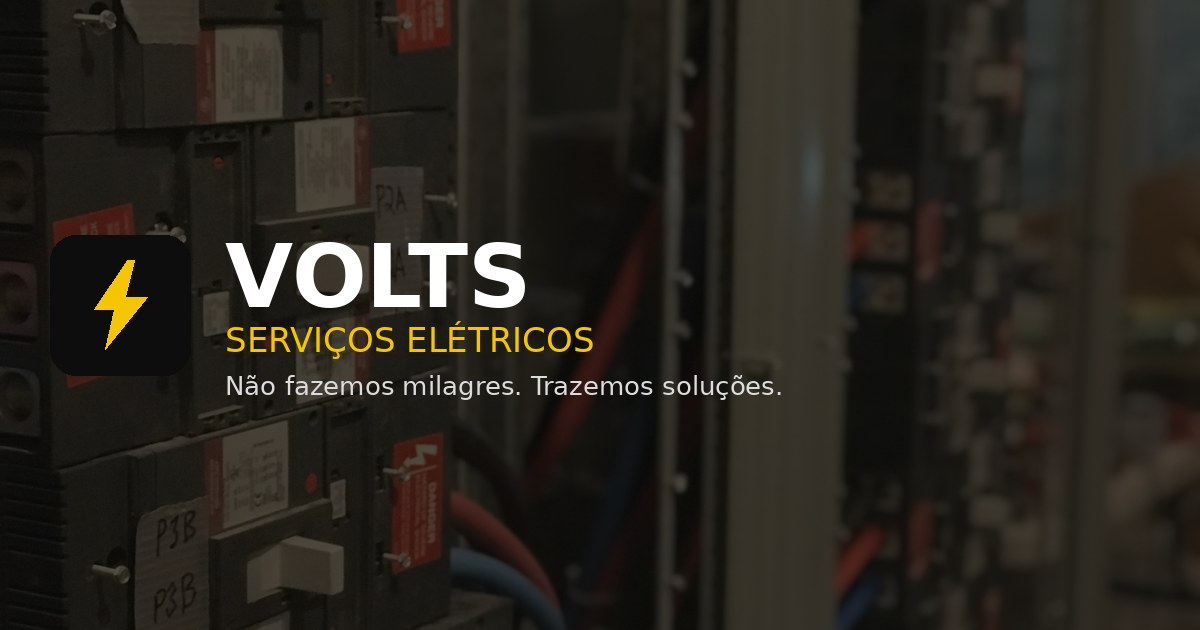
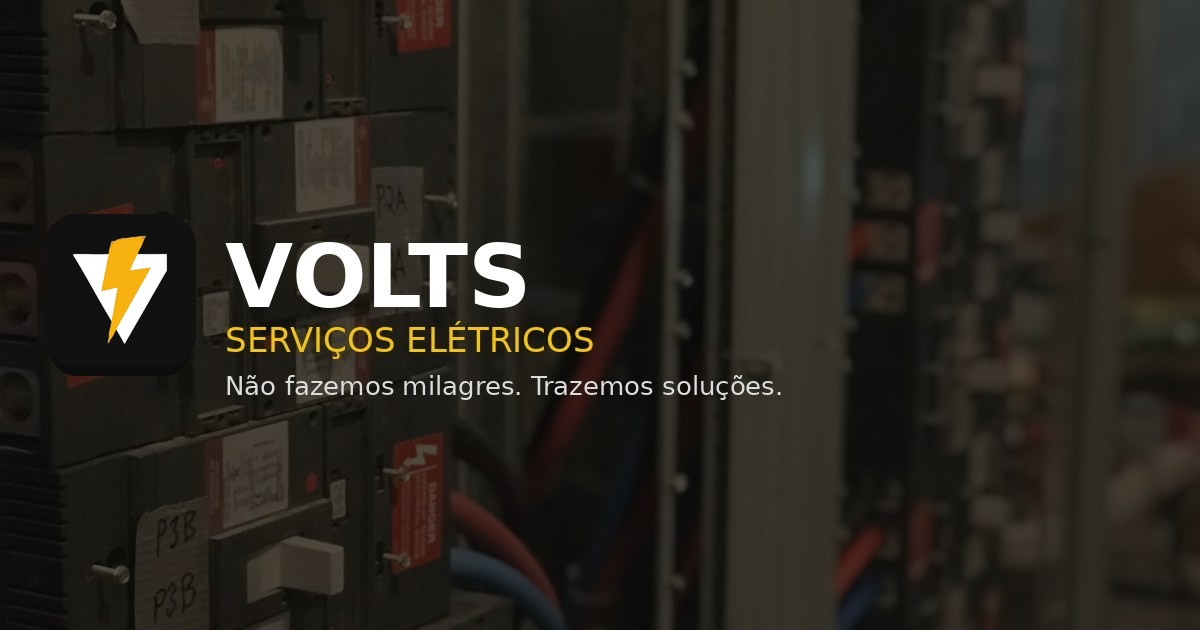
Sync site files

Changed region(s): [[0.185, 0.5127, 0.4933, 0.573], [0.0308, 0.3317, 0.1542, 0.5429]]

diff --git a/index.html b/index.html
@@ -60,6 +60,45 @@
 }
 </script>
 
+<script type="application/ld+json">
+{
+  "@context": "https://schema.org",
+  "@type": "FAQPage",
+  "mainEntity": [
+    {
+      "@type": "Question",
+      "name": "Vocês atendem fora de Juína?",
+      "acceptedAnswer": {"@type": "Answer", "text": "Sim. Atendemos armazéns, indústrias e comércios em todo o estado de Mato Grosso, com equipe própria e parceiros técnicos regionais para deslocamento até a obra."}
+    },
+    {
+      "@type": "Question",
+      "name": "Quanto tempo leva para fabricar um painel elétrico sob medida?",
+      "acceptedAnswer": {"@type": "Answer", "text": "O prazo varia conforme a complexidade do projeto e a disponibilidade dos componentes. Após o levantamento técnico e a aprovação do projeto, informamos um prazo estimado antes de iniciar a fabricação."}
+    },
+    {
+      "@type": "Question",
+      "name": "Os projetos têm responsabilidade técnica (ART/CRT)?",
+      "acceptedAnswer": {"@type": "Answer", "text": "Sim. Todos os projetos executados pela Volts contam com responsabilidade técnica registrada, atendendo às normas de segurança e às exigências das concessionárias de energia."}
+    },
+    {
+      "@type": "Question",
+      "name": "Como funciona a correção de fator de potência?",
+      "acceptedAnswer": {"@type": "Answer", "text": "Fazemos o diagnóstico da instalação, dimensionamos o banco de capacitores adequado, instalamos e testamos o sistema para evitar multas por baixo fator de potência na conta de energia."}
+    },
+    {
+      "@type": "Question",
+      "name": "Vocês fazem manutenção preventiva de geradores?",
+      "acceptedAnswer": {"@type": "Answer", "text": "Sim. Oferecemos planos de manutenção preventiva e corretiva para geradores, reduzindo o risco de paradas não programadas na sua operação."}
+    },
+    {
+      "@type": "Question",
+      "name": "Como solicito um orçamento?",
+      "acceptedAnswer": {"@type": "Answer", "text": "Fale com a gente pelo WhatsApp ou e-mail com detalhes do seu projeto ou necessidade. Nossa equipe retorna com os próximos passos, incluindo visita técnica quando necessário."}
+    }
+  ]
+}
+</script>
+
 <style>
 :root{
   --black:#111111;
@@ -135,16 +174,9 @@ header{
   transition:background .3s ease;
 }
 .header-inner{display:flex;align-items:center;justify-content:space-between;height:80px;}
-.logo{display:flex;align-items:center;gap:12px;color:var(--white);}
-.logo-icon{
-  width:44px;height:44px;border-radius:11px;background:var(--black);
-  border:1px solid rgba(245,196,0,.35);
-  display:flex;align-items:center;justify-content:center;flex-shrink:0;
-}
-.logo-icon svg{width:22px;height:22px;}
-.logo-text{display:flex;flex-direction:column;line-height:1.1;}
-.logo-text strong{font-family:var(--font-head);font-size:1.28rem;letter-spacing:.03em;color:var(--white);}
-.logo-text span{font-size:.62rem;letter-spacing:.14em;color:var(--yellow);text-transform:uppercase;font-weight:600;}
+.logo{display:flex;align-items:center;gap:10px;color:var(--white);}
+.logo-full{height:34px;width:auto;display:block;}
+.logo-sub{font-size:.62rem;letter-spacing:.14em;color:var(--yellow);text-transform:uppercase;font-weight:600;white-space:nowrap;}
 
 nav{display:flex;align-items:center;gap:36px;}
 .nav-links{display:flex;gap:30px;}
@@ -419,6 +451,39 @@ nav{display:flex;align-items:center;gap:36px;}
 @media(max-width:900px){.mercado-grid{grid-template-columns:1fr;gap:36px;}}
 @media(max-width:480px){.mercado-stats{grid-template-columns:1fr;}}
 
+/* depoimentos */
+.depoimentos-section{background:var(--gray-100);}
+.depoimentos-grid{display:grid;grid-template-columns:repeat(3,1fr);gap:26px;}
+.depoimento-card{
+  background:var(--white);border:1px solid var(--gray-150);border-radius:16px;
+  padding:30px 26px;display:flex;flex-direction:column;gap:16px;
+}
+.depoimento-stars{display:flex;gap:3px;}
+.depoimento-stars svg{width:16px;height:16px;fill:var(--yellow);}
+.depoimento-text{color:var(--gray-700);font-size:.95rem;font-style:italic;flex:1;}
+.depoimento-author{display:flex;gap:12px;align-items:center;}
+.depoimento-avatar{
+  width:42px;height:42px;border-radius:50%;background:var(--black);color:var(--yellow);
+  display:flex;align-items:center;justify-content:center;font-family:var(--font-head);
+  font-weight:600;font-size:.85rem;flex-shrink:0;
+}
+.depoimento-author strong{display:block;font-size:.92rem;color:var(--black);}
+.depoimento-author span{font-size:.8rem;color:var(--gray-500);}
+@media(max-width:960px){.depoimentos-grid{grid-template-columns:1fr;}}
+
+/* faq */
+.faq-list{max-width:820px;margin:0 auto;display:flex;flex-direction:column;gap:14px;}
+.faq-item{border:1px solid var(--gray-150);border-radius:14px;padding:0 24px;background:var(--white);}
+.faq-item summary{
+  list-style:none;cursor:pointer;display:flex;align-items:center;justify-content:space-between;
+  gap:16px;padding:20px 0;font-family:var(--font-head);font-weight:600;font-size:1rem;color:var(--black);
+}
+.faq-item summary::-webkit-details-marker{display:none;}
+.faq-chevron{width:20px;height:20px;flex-shrink:0;transition:transform .3s ease;color:var(--yellow-dark);}
+.faq-item[open] .faq-chevron{transform:rotate(180deg);}
+.faq-item p{color:var(--gray-700);font-size:.94rem;padding:0 0 22px;}
+.faq-item[open] summary{border-bottom:1px solid var(--gray-150);}
+
 /* cta */
 .cta-section{position:relative;color:var(--white);overflow:hidden;}
 .cta-bg{position:absolute;inset:0;background-image:url('images/cta-bg.jpg');background-size:cover;background-position:center 65%;}
@@ -584,7 +649,7 @@ footer h4{color:var(--white);font-family:var(--font-head);font-size:1rem;margin-
   20%,22%{opacity:.45;}
   81%{opacity:.65;}
 }
-.logo-icon svg{animation:boltFlicker 6s linear infinite;}
+.logo-full{animation:boltFlicker 6s linear infinite;}
 
 /* voltar ao topo */
 .back-to-top{
@@ -627,7 +692,7 @@ footer h4{color:var(--white);font-family:var(--font-head);font-size:1rem;margin-
   .reveal,.reveal-left,.reveal-right,.mvv-card,.values-list,.servico-card{transition:none;opacity:1;transform:none;}
   .trust-item .icon-wrap,.mvv-card.revealed .icon-wrap,.values-list.revealed .value-row .icon-wrap{animation:none;}
   .typing-cursor{animation:none;}
-  .logo-icon svg{animation:none;}
+  .logo-full{animation:none;}
   .hero-glow{display:none;}
   html{scroll-behavior:auto;}
 }
@@ -640,10 +705,8 @@ footer h4{color:var(--white);font-family:var(--font-head);font-size:1rem;margin-
 <header id="site-header">
   <div class="container header-inner">
     <a href="#hero" class="logo" aria-label="Volts Serviços Elétricos - início">
-      <span class="logo-icon">
-        <svg viewBox="0 0 24 24" fill="#F5C400" xmlns="http://www.w3.org/2000/svg"><path d="M13 2 4 14h6l-1 8 9-12h-6l1-8z"/></svg>
-      </span>
-      <span class="logo-text"><strong>VOLTS</strong><span>Serviços Elétricos</span></span>
+      <img src="images/logo-full.png" alt="Volts" class="logo-full" loading="eager">
+      <span class="logo-sub">Serviços Elétricos</span>
     </a>
     <nav>
       <ul class="nav-links">
@@ -672,6 +735,8 @@ footer h4{color:var(--white);font-family:var(--font-head);font-size:1rem;margin-
   <a href="#servicos">Serviços</a>
   <a href="#produtos">Produtos</a>
   <a href="#mercado">Mercado</a>
+  <a href="#depoimentos">Depoimentos</a>
+  <a href="#faq">Dúvidas</a>
   <a href="#contato">Contato</a>
   <a href="vitrine.html" style="color:var(--yellow);">Vitrine online</a>
   <a class="btn btn-primary" href="https://wa.me/5566984539233?text=Ol%C3%A1!%20Gostaria%20de%20solicitar%20um%20or%C3%A7amento%20com%20a%20Volts%20Servi%C3%A7os%20El%C3%A9tricos." target="_blank" rel="noopener">Falar no WhatsApp</a>
@@ -979,6 +1044,96 @@ footer h4{color:var(--white);font-family:var(--font-head);font-size:1rem;margin-
   </div>
 </section>
 
+<section class="section-pad depoimentos-section" id="depoimentos">
+  <div class="container">
+    <div class="section-head center">
+      <span class="eyebrow">Depoimentos</span>
+      <h2 class="section-title">O que dizem sobre a Volts</h2>
+      <p class="section-lead">Feedback de quem já contou com a Volts para manter a operação elétrica funcionando.</p>
+    </div>
+    <div class="depoimentos-grid">
+      <div class="depoimento-card reveal">
+        <div class="depoimento-stars">
+          <svg viewBox="0 0 24 24"><path d="M12 2l3.09 6.26L22 9.27l-5 4.87L18.18 21 12 17.77 5.82 21 7 14.14l-5-4.87 6.91-1.01z"/></svg>
+          <svg viewBox="0 0 24 24"><path d="M12 2l3.09 6.26L22 9.27l-5 4.87L18.18 21 12 17.77 5.82 21 7 14.14l-5-4.87 6.91-1.01z"/></svg>
+          <svg viewBox="0 0 24 24"><path d="M12 2l3.09 6.26L22 9.27l-5 4.87L18.18 21 12 17.77 5.82 21 7 14.14l-5-4.87 6.91-1.01z"/></svg>
+          <svg viewBox="0 0 24 24"><path d="M12 2l3.09 6.26L22 9.27l-5 4.87L18.18 21 12 17.77 5.82 21 7 14.14l-5-4.87 6.91-1.01z"/></svg>
+          <svg viewBox="0 0 24 24"><path d="M12 2l3.09 6.26L22 9.27l-5 4.87L18.18 21 12 17.77 5.82 21 7 14.14l-5-4.87 6.91-1.01z"/></svg>
+        </div>
+        <p class="depoimento-text">"A Volts entregou o painel elétrico sob medida dentro do prazo combinado, com toda a documentação técnica em dia. Isso fez toda diferença pra gente manter a operação rodando sem imprevistos."</p>
+        <div class="depoimento-author">
+          <span class="depoimento-avatar">MA</span>
+          <div><strong>Marcelo A.</strong><span>Resp. de manutenção — armazém de grãos, MT</span></div>
+        </div>
+      </div>
+      <div class="depoimento-card reveal">
+        <div class="depoimento-stars">
+          <svg viewBox="0 0 24 24"><path d="M12 2l3.09 6.26L22 9.27l-5 4.87L18.18 21 12 17.77 5.82 21 7 14.14l-5-4.87 6.91-1.01z"/></svg>
+          <svg viewBox="0 0 24 24"><path d="M12 2l3.09 6.26L22 9.27l-5 4.87L18.18 21 12 17.77 5.82 21 7 14.14l-5-4.87 6.91-1.01z"/></svg>
+          <svg viewBox="0 0 24 24"><path d="M12 2l3.09 6.26L22 9.27l-5 4.87L18.18 21 12 17.77 5.82 21 7 14.14l-5-4.87 6.91-1.01z"/></svg>
+          <svg viewBox="0 0 24 24"><path d="M12 2l3.09 6.26L22 9.27l-5 4.87L18.18 21 12 17.77 5.82 21 7 14.14l-5-4.87 6.91-1.01z"/></svg>
+          <svg viewBox="0 0 24 24"><path d="M12 2l3.09 6.26L22 9.27l-5 4.87L18.18 21 12 17.77 5.82 21 7 14.14l-5-4.87 6.91-1.01z"/></svg>
+        </div>
+        <p class="depoimento-text">"Depois da correção de fator de potência, a conta de energia normalizou e paramos de receber notificação da concessionária. Atendimento técnico muito claro do início ao fim."</p>
+        <div class="depoimento-author">
+          <span class="depoimento-avatar">FL</span>
+          <div><strong>Fernanda L.</strong><span>Gestora industrial — indústria de alimentos, MT</span></div>
+        </div>
+      </div>
+      <div class="depoimento-card reveal">
+        <div class="depoimento-stars">
+          <svg viewBox="0 0 24 24"><path d="M12 2l3.09 6.26L22 9.27l-5 4.87L18.18 21 12 17.77 5.82 21 7 14.14l-5-4.87 6.91-1.01z"/></svg>
+          <svg viewBox="0 0 24 24"><path d="M12 2l3.09 6.26L22 9.27l-5 4.87L18.18 21 12 17.77 5.82 21 7 14.14l-5-4.87 6.91-1.01z"/></svg>
+          <svg viewBox="0 0 24 24"><path d="M12 2l3.09 6.26L22 9.27l-5 4.87L18.18 21 12 17.77 5.82 21 7 14.14l-5-4.87 6.91-1.01z"/></svg>
+          <svg viewBox="0 0 24 24"><path d="M12 2l3.09 6.26L22 9.27l-5 4.87L18.18 21 12 17.77 5.82 21 7 14.14l-5-4.87 6.91-1.01z"/></svg>
+          <svg viewBox="0 0 24 24"><path d="M12 2l3.09 6.26L22 9.27l-5 4.87L18.18 21 12 17.77 5.82 21 7 14.14l-5-4.87 6.91-1.01z"/></svg>
+        </div>
+        <p class="depoimento-text">"Contratamos a manutenção preventiva dos geradores e não tivemos mais parada não programada. Equipe pontual e sempre disponível quando precisamos de suporte."</p>
+        <div class="depoimento-author">
+          <span class="depoimento-avatar">RT</span>
+          <div><strong>Ricardo T.</strong><span>Diretor de operações — comércio atacadista, MT</span></div>
+        </div>
+      </div>
+    </div>
+  </div>
+</section>
+
+<section class="section-pad faq-section" id="faq">
+  <div class="container">
+    <div class="section-head center">
+      <span class="eyebrow">Dúvidas frequentes</span>
+      <h2 class="section-title">Perguntas frequentes</h2>
+      <p class="section-lead">Tire suas dúvidas antes de solicitar um orçamento.</p>
+    </div>
+    <div class="faq-list reveal">
+      <details class="faq-item">
+        <summary>Vocês atendem fora de Juína?<svg class="faq-chevron" viewBox="0 0 24 24" fill="none" stroke="currentColor" stroke-width="2"><path d="M6 9l6 6 6-6"/></svg></summary>
+        <p>Sim. Atendemos armazéns, indústrias e comércios em todo o estado de Mato Grosso, com equipe própria e parceiros técnicos regionais para deslocamento até a obra.</p>
+      </details>
+      <details class="faq-item">
+        <summary>Quanto tempo leva para fabricar um painel elétrico sob medida?<svg class="faq-chevron" viewBox="0 0 24 24" fill="none" stroke="currentColor" stroke-width="2"><path d="M6 9l6 6 6-6"/></svg></summary>
+        <p>O prazo varia conforme a complexidade do projeto e a disponibilidade dos componentes. Após o levantamento técnico e a aprovação do projeto, informamos um prazo estimado antes de iniciar a fabricação.</p>
+      </details>
+      <details class="faq-item">
+        <summary>Os projetos têm responsabilidade técnica (ART/CRT)?<svg class="faq-chevron" viewBox="0 0 24 24" fill="none" stroke="currentColor" stroke-width="2"><path d="M6 9l6 6 6-6"/></svg></summary>
+        <p>Sim. Todos os projetos executados pela Volts contam com responsabilidade técnica registrada, atendendo às normas de segurança e às exigências das concessionárias de energia.</p>
+      </details>
+      <details class="faq-item">
+        <summary>Como funciona a correção de fator de potência?<svg class="faq-chevron" viewBox="0 0 24 24" fill="none" stroke="currentColor" stroke-width="2"><path d="M6 9l6 6 6-6"/></svg></summary>
+        <p>Fazemos o diagnóstico da instalação, dimensionamos o banco de capacitores adequado, instalamos e testamos o sistema para evitar multas por baixo fator de potência na conta de energia.</p>
+      </details>
+      <details class="faq-item">
+        <summary>Vocês fazem manutenção preventiva de geradores?<svg class="faq-chevron" viewBox="0 0 24 24" fill="none" stroke="currentColor" stroke-width="2"><path d="M6 9l6 6 6-6"/></svg></summary>
+        <p>Sim. Oferecemos planos de manutenção preventiva e corretiva para geradores, reduzindo o risco de paradas não programadas na sua operação.</p>
+      </details>
+      <details class="faq-item">
+        <summary>Como solicito um orçamento?<svg class="faq-chevron" viewBox="0 0 24 24" fill="none" stroke="currentColor" stroke-width="2"><path d="M6 9l6 6 6-6"/></svg></summary>
+        <p>Fale com a gente pelo WhatsApp ou e-mail com detalhes do seu projeto ou necessidade. Nossa equipe retorna com os próximos passos, incluindo visita técnica quando necessário.</p>
+      </details>
+    </div>
+  </div>
+</section>
+
 <section class="cta-section">
   <div class="cta-bg"></div>
   <div class="container cta-inner">
@@ -1034,8 +1189,8 @@ footer h4{color:var(--white);font-family:var(--font-head);font-size:1rem;margin-
     <div class="footer-grid">
       <div class="footer-brand">
         <a href="#hero" class="logo">
-          <span class="logo-icon"><svg viewBox="0 0 24 24" fill="#F5C400" xmlns="http://www.w3.org/2000/svg"><path d="M13 2 4 14h6l-1 8 9-12h-6l1-8z"/></svg></span>
-          <span class="logo-text"><strong>VOLTS</strong><span>Serviços Elétricos</span></span>
+          <img src="images/logo-full.png" alt="Volts" class="logo-full" loading="lazy">
+          <span class="logo-sub">Serviços Elétricos</span>
         </a>
         <p>Engenharia e serviços elétricos industriais em Mato Grosso — painéis, geradores, correção de fator de potência e adequação de instalações.</p>
         <p class="footer-slogan">"Não fazemos milagres. Trazemos soluções."</p>
@@ -1047,6 +1202,8 @@ footer h4{color:var(--white);font-family:var(--font-head);font-size:1rem;margin-
           <li><a href="#servicos">Serviços</a></li>
           <li><a href="#produtos">Produtos</a></li>
           <li><a href="#mercado">Mercado</a></li>
+          <li><a href="#depoimentos">Depoimentos</a></li>
+          <li><a href="#faq">Dúvidas frequentes</a></li>
           <li><a href="#contato">Contato</a></li>
         </ul>
       </div>
@@ -1109,7 +1266,7 @@ footer h4{color:var(--white);font-family:var(--font-head);font-size:1rem;margin-
   onScrollSpy();
 
   const delays = ['','delay-1','delay-2','delay-3','delay-4','delay-5'];
-  document.querySelectorAll('.servicos-grid, .mvv-top').forEach(function(group){
+  document.querySelectorAll('.servicos-grid, .mvv-top, .depoimentos-grid').forEach(function(group){
     Array.from(group.children).forEach(function(el, i){
       if (delays[i % delays.length]) el.classList.add(delays[i % delays.length]);
     });

diff --git a/vitrine.html b/vitrine.html
@@ -52,16 +52,9 @@ header{
   border-bottom:1px solid rgba(255,255,255,.08);
 }
 .header-inner{display:flex;align-items:center;justify-content:space-between;height:100%;}
-.logo{display:flex;align-items:center;gap:12px;color:var(--white);}
-.logo-icon{
-  width:44px;height:44px;border-radius:11px;background:var(--black);
-  border:1px solid rgba(245,196,0,.35);
-  display:flex;align-items:center;justify-content:center;flex-shrink:0;
-}
-.logo-icon svg{width:22px;height:22px;}
-.logo-text{display:flex;flex-direction:column;line-height:1.1;}
-.logo-text strong{font-family:var(--font-head);font-size:1.28rem;letter-spacing:.03em;color:var(--white);}
-.logo-text span{font-size:.62rem;letter-spacing:.14em;color:var(--yellow);text-transform:uppercase;font-weight:600;}
+.logo{display:flex;align-items:center;gap:10px;color:var(--white);}
+.logo-full{height:34px;width:auto;display:block;}
+.logo-sub{font-size:.62rem;letter-spacing:.14em;color:var(--yellow);text-transform:uppercase;font-weight:600;white-space:nowrap;}
 
 nav{display:flex;align-items:center;gap:36px;}
 .nav-links{display:flex;align-items:center;gap:30px;}
@@ -111,10 +104,8 @@ main{position:fixed;top:var(--header-h);left:0;right:0;bottom:0;width:100%;}
 <header>
   <div class="container header-inner">
     <a href="index.html" class="logo" aria-label="Volts Serviços Elétricos - início">
-      <span class="logo-icon">
-        <svg viewBox="0 0 24 24" fill="#F5C400" xmlns="http://www.w3.org/2000/svg"><path d="M13 2 4 14h6l-1 8 9-12h-6l1-8z"/></svg>
-      </span>
-      <span class="logo-text"><strong>VOLTS</strong><span>Serviços Elétricos</span></span>
+      <img src="images/logo-full.png" alt="Volts" class="logo-full" loading="eager">
+      <span class="logo-sub">Serviços Elétricos</span>
     </a>
     <nav>
       <ul class="nav-links">
